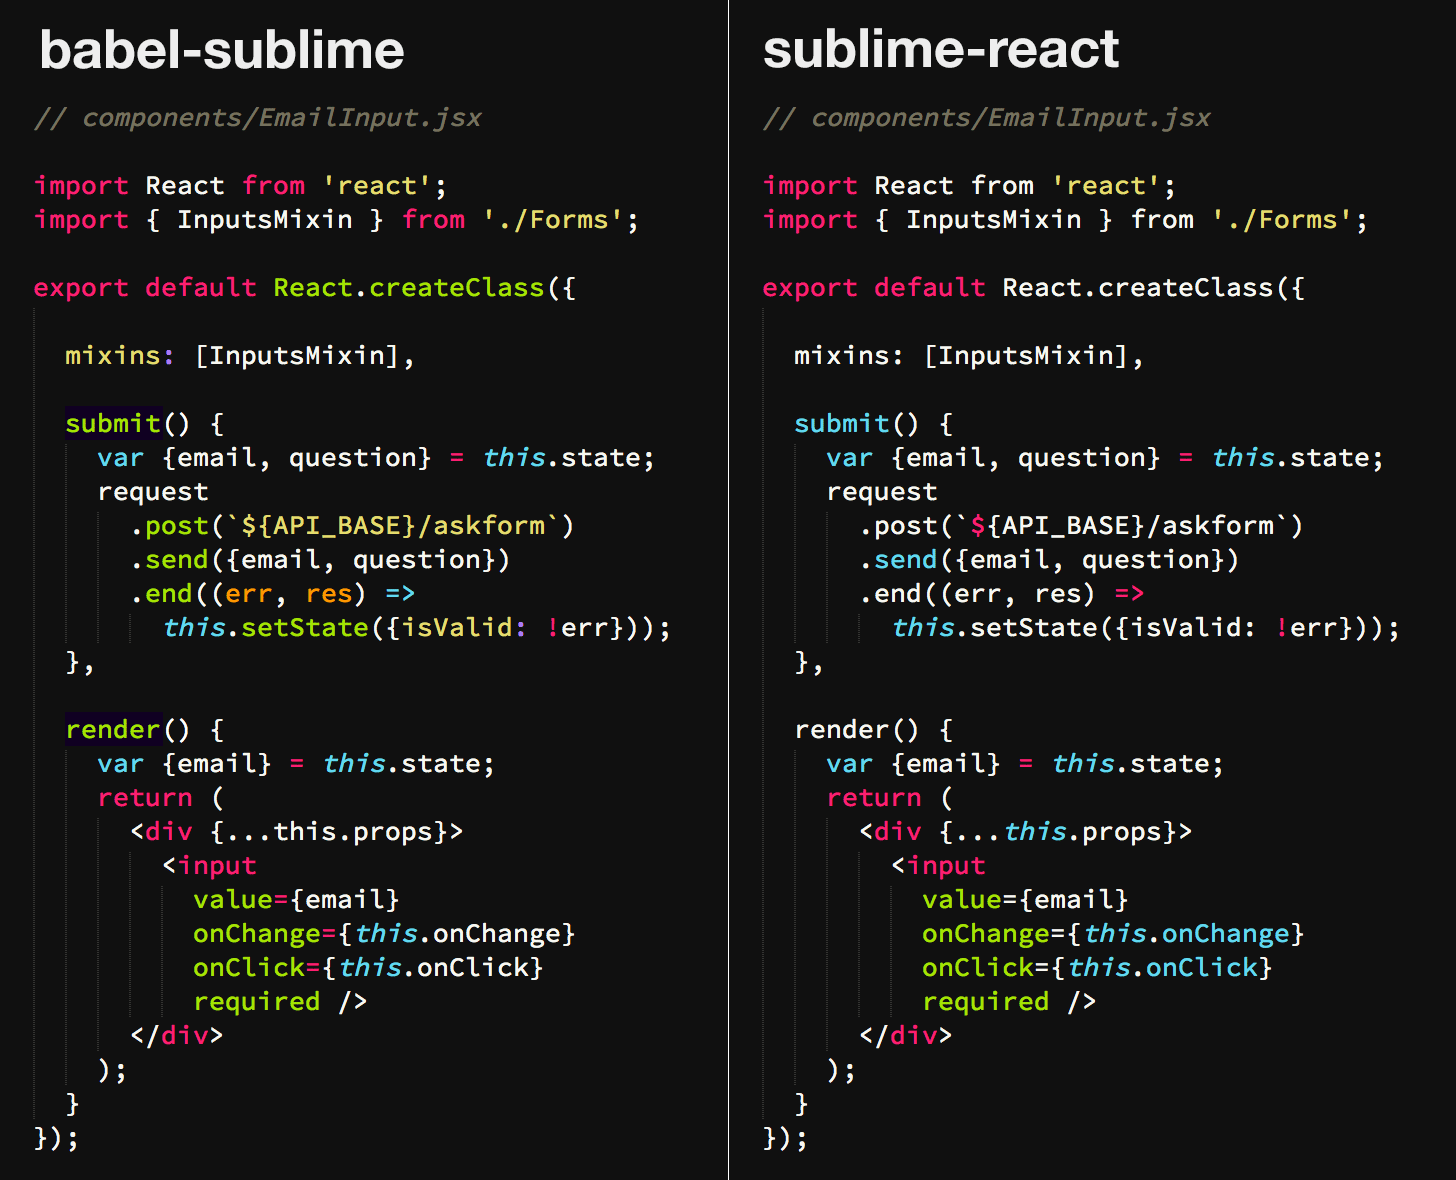
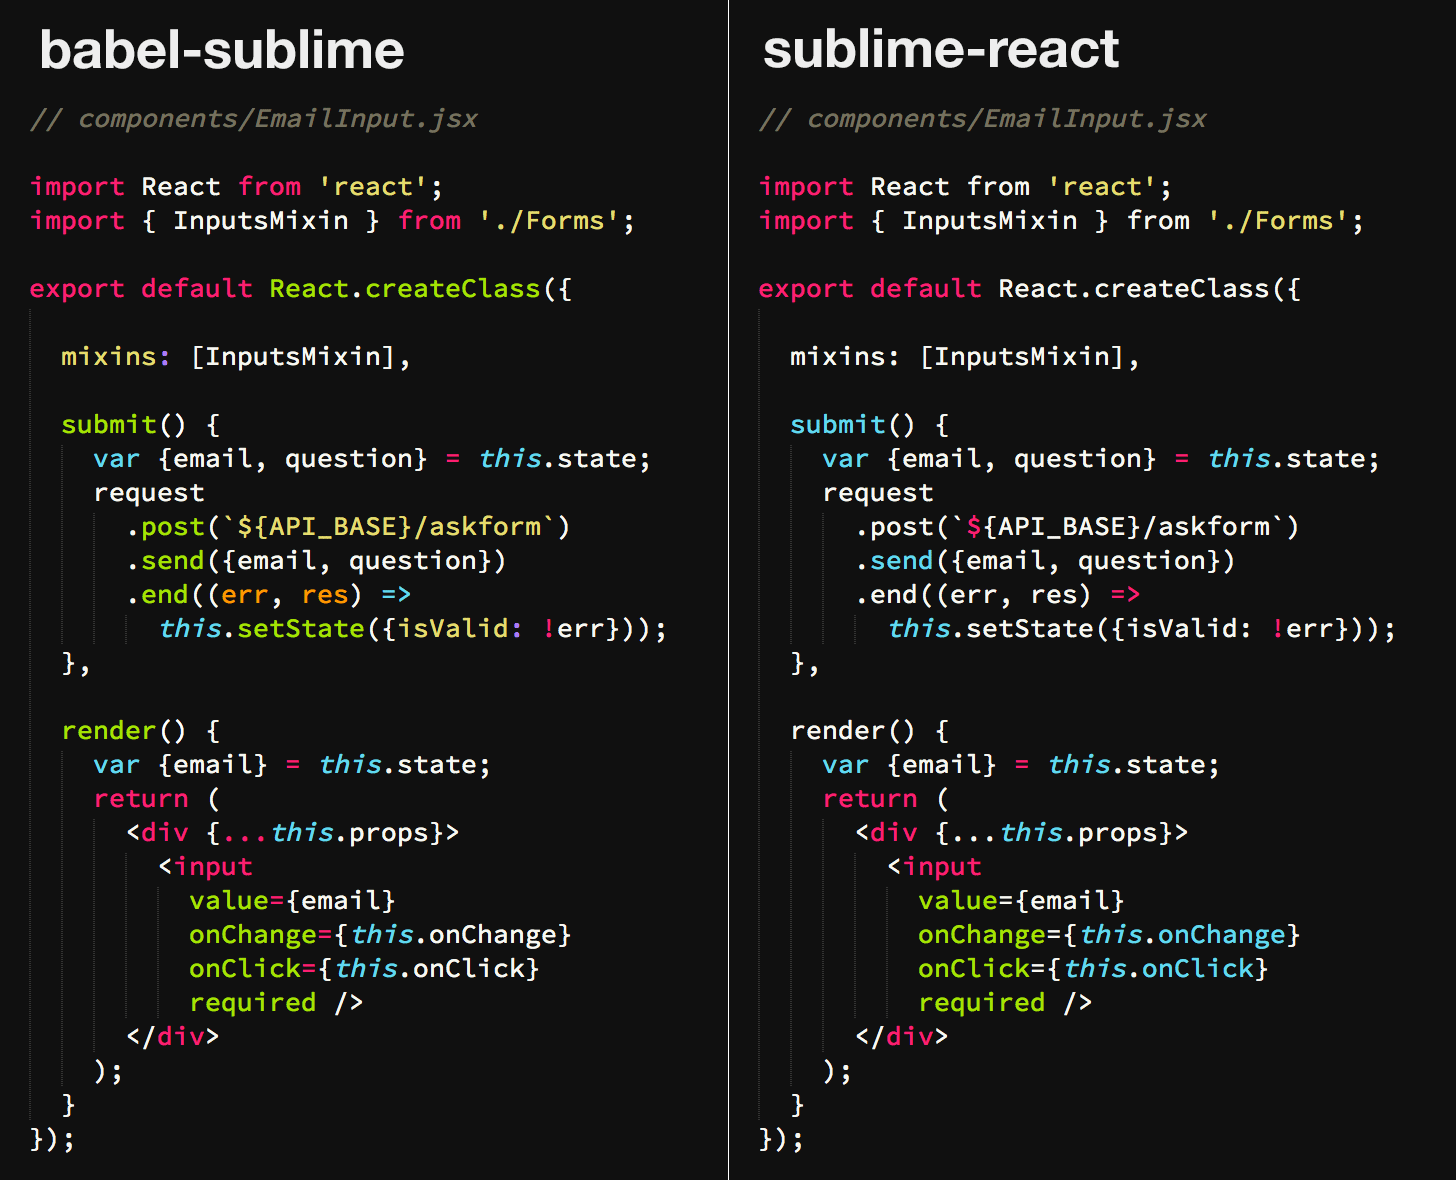
Updated "compare-react-class" screenshot
The spread operator is now matched

diff --git a/test/full-react-class.jsx b/test/full-react-class.jsx
@@ -1,3 +1,8 @@
+
+
+
+// components/EmailInput.jsx
+
 import React from 'react';
 import { InputsMixin } from './Forms';
 
@@ -10,7 +15,8 @@ export default React.createClass({
     request
       .post(`${API_BASE}/askform`)
       .send({email, question})
-      .end((err, res) => this.setState({isValid: !err}));
+      .end((err, res) =>
+        this.setState({isValid: !err}));
   },
 
   render() {
@@ -26,3 +32,4 @@ export default React.createClass({
     );
   }
 });
+
